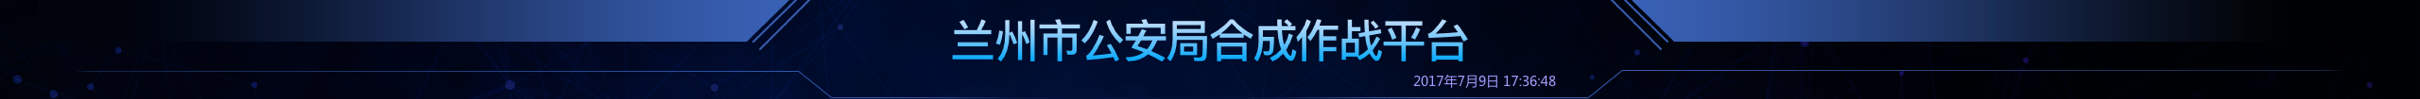
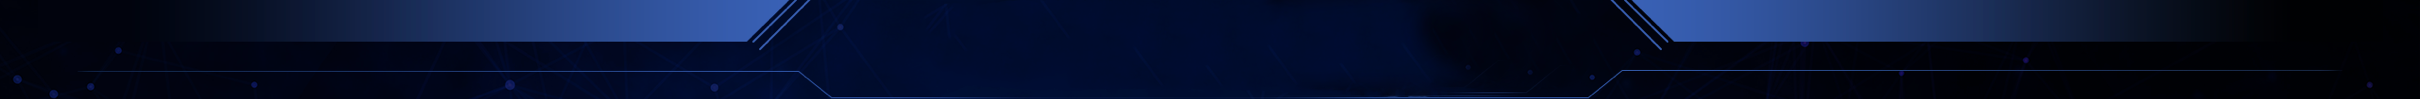
设置时间

diff --git a/src/pages/home.tsx b/src/pages/home.tsx
@@ -1,4 +1,4 @@
-import React from 'react';
+import React, { useEffect, useState } from 'react';
 import './home.scss';
 import headerBg from '../images/header.png';
 import { Chart1 } from '../components/chart-1';
@@ -17,10 +17,29 @@ import { Chart13 } from '../components/chart-13';
 import { Chart14 } from '../components/chart-14';
 
 export const Home = () => {
+  const [currentTime, setCurrentTime] = useState(new Date());
+  useEffect(() => {
+    const timer = setInterval(() => {
+      setCurrentTime(new Date())
+    }, 1000);
+    return () => {
+      clearInterval(timer);
+    }
+  }, [])
   const year = new Date().getFullYear();
+  const month = new Date().getMonth() + 1;
+  const day = new Date().getDate();
+  const hour = new Date().getHours();
+  const minutes = new Date().getMinutes();
+  const seconds = new Date().getSeconds();
   return (
     <div className="home">
-      <header style={{ backgroundImage: `url(${headerBg})` }}></header>
+      <header style={{ backgroundImage: `url(${headerBg})` }}>
+        <div className="headfont">
+          <span className="title">瑞珀市公安局合成作战平台</span>
+          <span className="time">{year}年{month}月{day}日{hour}时{minutes}分{seconds}秒</span>
+        </div>
+      </header>
       <main>
         <section className="section1">
           <Chart1 />
@@ -66,7 +85,7 @@ export const Home = () => {
         </section>
       </main>
       <footer>
-        &copy; 大屏可视化项目-数据仅供展示 2020-{year}
+        &copy; 大屏可视化项目-数据仅供展示 {year}
       </footer>
     </div>
   );

diff --git a/src/pages/home.scss b/src/pages/home.scss
@@ -16,6 +16,36 @@
     background-size: cover;
     width: px(2420);
     margin: 0 auto;
+    display: flex;
+    flex-direction: column;
+    align-items: center;
+    margin-bottom: px(20);
+
+    .headfont {
+      height: px(99);
+      min-width: px(750);
+      display: flex;
+      flex-direction: column;
+      align-items: center;
+      justify-content: center;
+
+      .title {
+        font-size: px(45);
+        background-image: linear-gradient(90deg, rgba(155, 188, 218, 1) 0%, rgba(24, 176, 255, 1) 100%);
+        background-clip: text;
+        -webkit-background-clip: text;
+        color: transparent;
+        font-weight: 1000;
+      }
+
+      .time {
+        margin-left: auto;
+        font-size: px(12);
+        color: #8b83d8;
+      }
+    }
+
+
   }
 
   >footer {
@@ -193,7 +223,7 @@
     }
 
     .籍贯 {
-      height: px(774);
+      height: px(759);
       background: transparent;
 
       >.wrapper {
@@ -246,7 +276,7 @@
     }
 
     .破获排名 {
-      height: px(423);
+      height: px(410);
 
       .legend {
         display: flex;
@@ -283,7 +313,7 @@
     .年龄段 {
       display: flex;
       flex-direction: column;
-      height: px(372);
+      height: px(364);
 
       >.charts {
         padding: px(30);

diff --git a/src/shared/style.scss b/src/shared/style.scss
@@ -33,6 +33,7 @@ body {
   font-family: $font-hei;
   font-size: 16px;
   background: #01030d;
+  font-family: -apple-system, "Noto Sans", "Helvetica Neue", Helvetica, "Nimbus Sans L", Arial, "Liberation Sans", "PingFang SC", "Hiragino Sans GB", "Noto Sans CJK SC", "Source Han Sans SC", "Source Han Sans CN", "Microsoft YaHei", "Wenquanyi Micro Hei", "WenQuanYi Zen Hei", "ST Heiti", SimHei, "WenQuanYi Zen Hei Sharp", sans-serif;
 }
 
 #root {

diff --git a/src/components/chart-5.tsx b/src/components/chart-5.tsx
@@ -21,6 +21,9 @@ export const Chart5 = () => {
           <tr>
             <td>2017</td><td>2</td><td>3</td><td>4</td><td>5</td><td>6</td><td>7</td><td>8</td>
           </tr>
+          <tr>
+            <td>2018</td><td>2</td><td>3</td><td>4</td><td>5</td><td>6</td><td>7</td><td>8</td>
+          </tr>
         </tbody>
       </table>
     </div>
